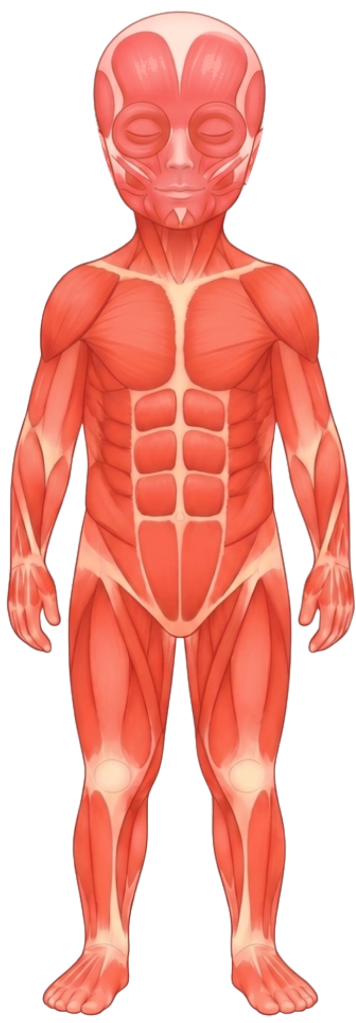
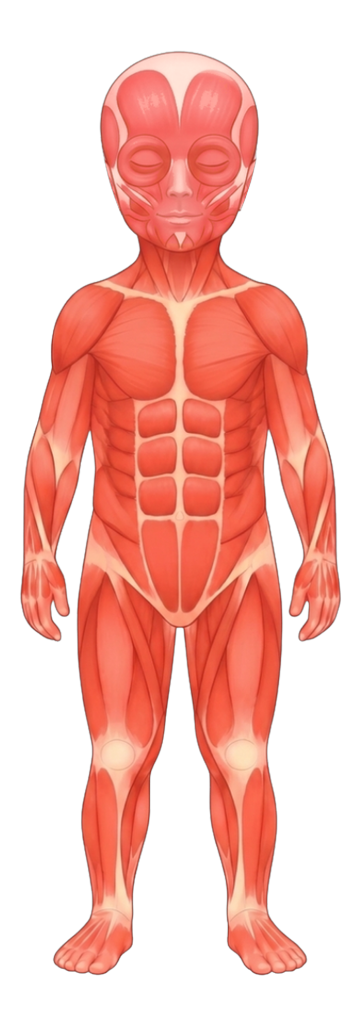
Scale down younger boy muscular system asset to 92% for cleaner silhouette margin

diff --git a/sw.js b/sw.js
@@ -1,5 +1,5 @@
 // Riley PWA Service Worker
-const CACHE_NAME = 'riley-pwa-v358';
+const CACHE_NAME = 'riley-pwa-v359';
 const PRECACHE_ASSETS = [
   './',
   './index.html',
